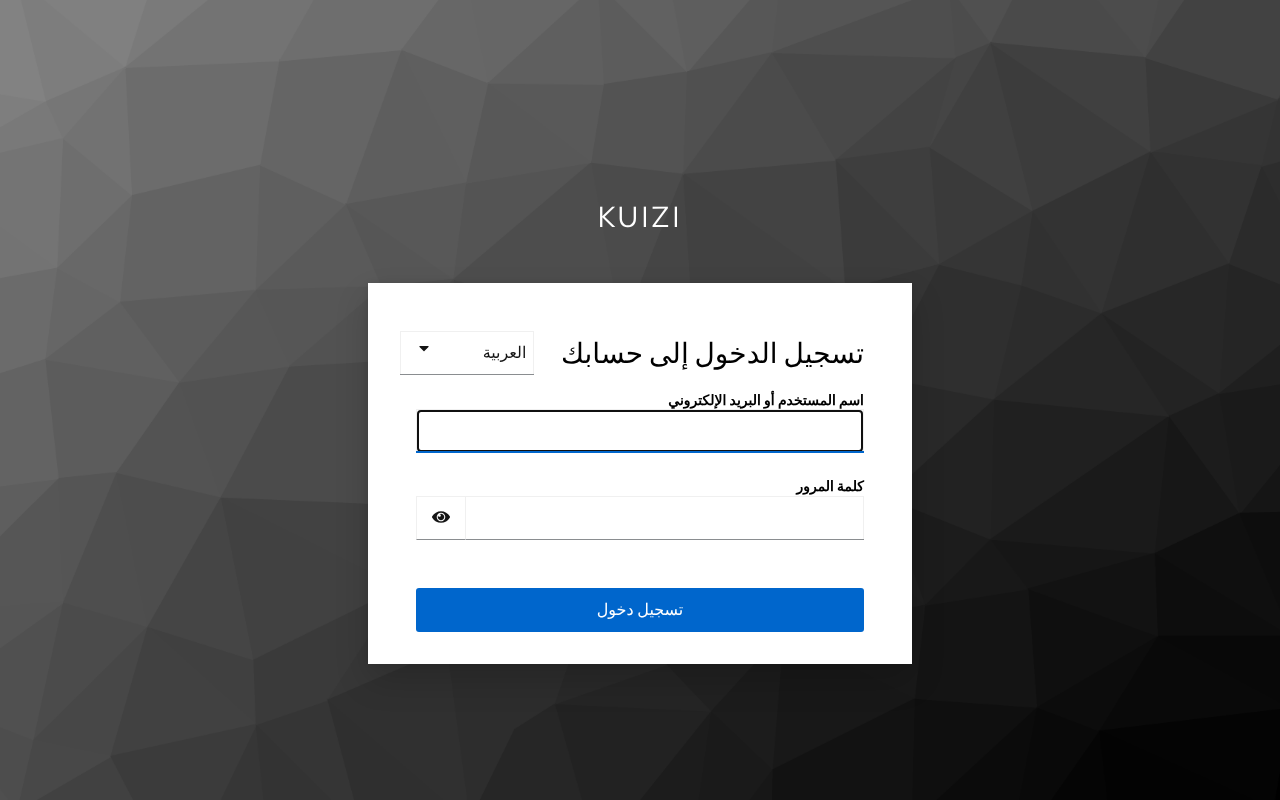
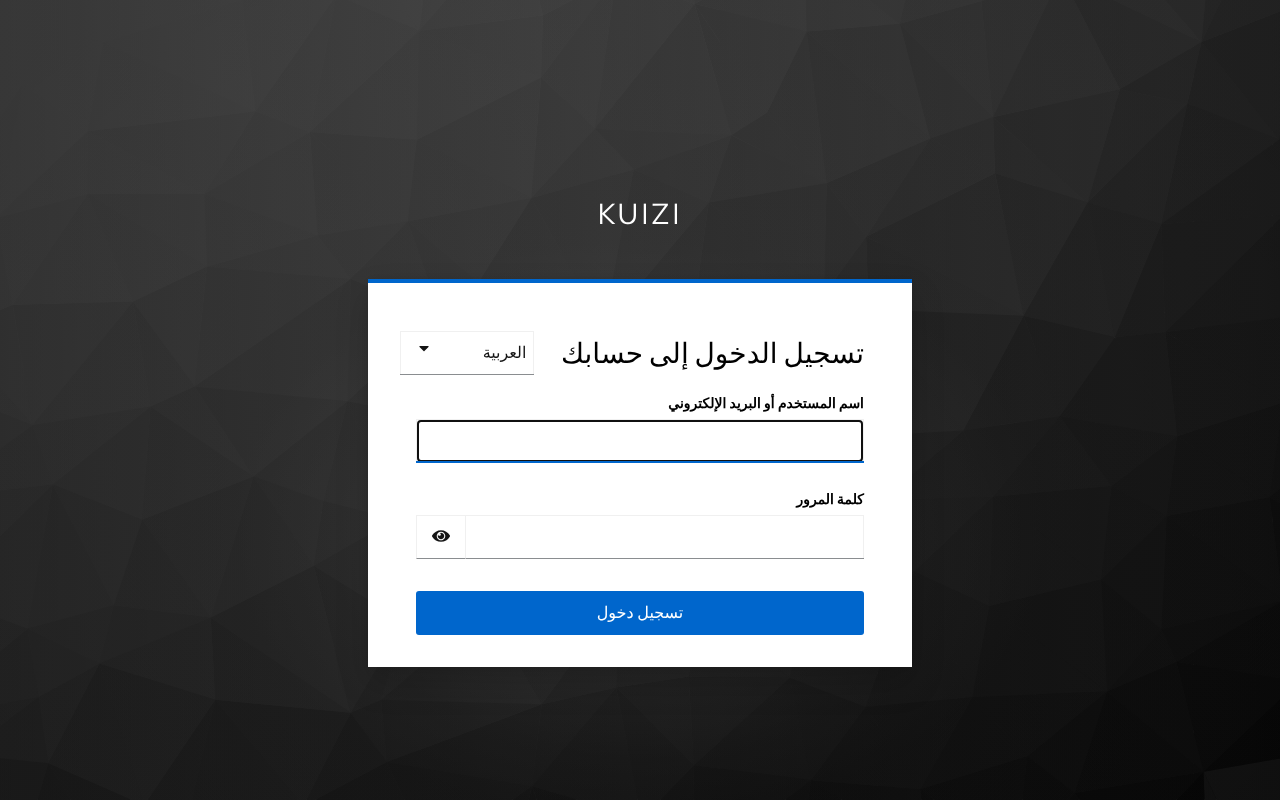
fix(keycloak): upgrade to Keycloak 26.8.1, clearing 7 CRITICAL CVEs (T012)
Trivy (v0.70.0, DB of 2026-10-18) on the Kuizi image:
- 26.1.4: 7 CRITICAL, 85 HIGH (keycloak-services CVE-2026-18963, netty-handler 4.1.118
  CVE-2026-75595, bcprov 1.78.1 CVE-2025-14813 and CVE-2026-8763, freemarker 2.3.32
  CVE-2026-84939). No 26.1.x release fixes them.
- 26.8.1: 0 CRITICAL, 0 HIGH (26 MEDIUM, 25 LOW).

Changes:
- Dockerfile KEYCLOAK_VERSION, provider pom keycloak.version 26.8.1 and jboss-logging
  3.6.3.Final (as bundled), compose image tag kuizi/keycloak:26.8.1-kuizi.1.
- Password-policy SPI unchanged (only Config.Scope gained default methods); provider
  builds and its 11 tests pass unchanged; KC_SPI_PASSWORD_POLICY_PWNED_PASSWORD_* still read.
- keycloak.v2 login theme still PatternFly 5 and still 36 px controls: the Kuizi CSS still
  brings them to 44 px; Keycloak's Arabic "password updated" title is still wrong, fix kept.
- Realm imports unchanged on 26.8.1.
- Keycloak 26.8 refuses a password grant with HTTP 400 invalid_grant (26.1: 401): the
  brute-force integration test checks invalid_grant and accepts either status.
- sid and jti formats changed (no longer UUIDs); docs say they are opaque.
- Fresh screenshots (26.8 look: darker background, error icon); docs note that upgrades
  migrate the Keycloak database one way.

Claude-Session: https://claude.ai/code/session_011Suu8EGNBx5pqEThzk8u3c

diff --git a/packages/auth/test/keycloak-realm.integration.test.ts b/packages/auth/test/keycloak-realm.integration.test.ts
@@ -127,17 +127,25 @@ describe.skipIf(!running)(`Keycloak realm settings (${ISSUER})`, () => {
       expect((await setPassword(`violet-otter-${randomUUID()}`)).status).toBe(204);
     });
 
+    // Keycloak 26.8 refuses a password grant with HTTP 400 invalid_grant (RFC 6749 section 5.2);
+    // 26.1 answered 401. Both mean "no token".
+    async function expectRefused(password: string) {
+      const { status, body } = await passwordGrant(username, password);
+      expect([400, 401]).toContain(status);
+      expect(body.error).toBe("invalid_grant");
+    }
+
     it("locks the account for a while after 5 failed sign-ins", async () => {
       const password = `amber-falcon-${randomUUID()}`;
       expect((await setPassword(password)).status).toBe(204);
       for (let attempt = 0; attempt < 5; attempt += 1) {
-        expect((await passwordGrant(username, "not-the-password-local-only")).status).toBe(401);
+        await expectRefused("not-the-password-local-only");
       }
       const state = (await (
         await adminApi("GET", `/attack-detection/brute-force/users/${userId}`)
       ).json()) as { disabled: boolean; numFailures: number };
       expect(state.disabled).toBe(true);
-      expect((await passwordGrant(username, password)).status).toBe(401);
+      await expectRefused(password); // the right password is refused while locked
     });
   });
 

diff --git a/docs/dev/identity.md b/docs/dev/identity.md
@@ -65,7 +65,8 @@ An access token for `dev-student` signed in through the web app:
   "sub": "f41e3b5c-b3e8-484d-8d70-a5405d99b689",
   "typ": "Bearer",
   "azp": "kuizi-web",
-  "sid": "5c08c133-6beb-4e9d-b6be-360b0c866c4c",
+  "sid": "Zz4Jwbds0bIuUQi8NoXJfRfd",
+  "jti": "onltro:8b744b10-1de5-6b26-5c69-099326bfd985",
   "scope": "openid email profile",
   "tenant_id": "demo-school-a",
   "roles": ["student"],
@@ -76,6 +77,7 @@ An access token for `dev-student` signed in through the web app:
 
 - **No name, email or username in access tokens.** Clients use Keycloak's *lightweight access token*, so tokens that travel to every service (and may end up in gateway logs) carry no personal data beyond the user ID. The ID token, read only by the app that signed in, carries the name and email (and the locale once set) for display, plus `tenant_id` and `roles`.
 - Signed RS256 with the realm key; Keycloak publishes the public keys at `/realms/kuizi/protocol/openid-connect/certs`.
+- `sid` and `jti` are opaque strings: their format changed between Keycloak 26.1 and 26.8 (UUIDs before), so code must not parse them.
 
 | Setting | Value | Why |
 | --- | --- | --- |
@@ -99,7 +101,7 @@ The login page offers exactly French (default) and Arabic. Arabic renders right 
 
 Arabic on a phone (390 px wide): ![Login page in Arabic on a phone](identity/login-ar-mobile.png)
 
-Screenshots taken with Playwright (Chromium) against the local stack on 2026-10-18; every control measured 44 px high or more.
+Screenshots taken with Playwright (Chromium) against the local stack (Keycloak 26.8.1) on 2026-10-18; every control measured 44 px high or more (Keycloak's own theme draws them 36 px high).
 
 Self-registration is **off** until the consent flow exists (T013): accounts are created by admins, by Google sign-in, or later by Kuizi's own onboarding. Password reset by email and email verification are off locally because the local stack has no mail server; they come with SES (T212).
 
@@ -182,6 +184,8 @@ docker compose -f infra/local/compose.yaml --env-file .env up -d --force-recreat
 ```
 
 `make reset` also works but deletes every service's data. After a change in `services/keycloak/`, bump the image tag in `infra/local/compose.yaml` (or run `docker compose -f infra/local/compose.yaml --env-file .env build keycloak`) so the image is rebuilt.
+
+Keycloak upgrades are one-way: on start, a newer Keycloak migrates its database (for example 26.1 to 26.8), and an older image then refuses to start on it. Going back to an older Keycloak means `make reset`, or dropping and recreating only the `keycloak` database.
 
 Stock Keycloak (without the Kuizi image) cannot load this realm: it does not know the `pwnedPassword` policy and answers HTTP 500 for every `kuizi` page, including the admin call that would delete the realm. Before going back to a checkout older than T012, delete the realm with the commands above while the Kuizi image still runs, or use `make reset`.
 

diff --git a/services/keycloak/README.md b/services/keycloak/README.md
@@ -1,6 +1,6 @@
 # Kuizi Keycloak image
 
-Stock Keycloak (`quay.io/keycloak/keycloak:26.1.4`) plus Kuizi's extensions (T012, [ADR 0009](../../docs/architecture/decisions/0009-identity-single-realm-and-keycloak-image.md)). The local stack builds it on the first `make up`; the cloud uses the same image (T240). The realm itself lives in [`infra/local/keycloak/`](../../infra/local/keycloak/) and is explained in [`docs/dev/identity.md`](../../docs/dev/identity.md).
+Stock Keycloak (`quay.io/keycloak/keycloak:26.8.1`) plus Kuizi's extensions (T012, [ADR 0009](../../docs/architecture/decisions/0009-identity-single-realm-and-keycloak-image.md)). The local stack builds it on the first `make up`; the cloud uses the same image (T240). The realm itself lives in [`infra/local/keycloak/`](../../infra/local/keycloak/) and is explained in [`docs/dev/identity.md`](../../docs/dev/identity.md).
 
 | Path | What |
 | --- | --- |
@@ -49,4 +49,4 @@ Messages shown to users are in `src/main/resources/theme-resources/messages/` (F
 
 If the API is blocked on a network, two fallbacks exist: a self-hosted copy of the range data (the API URL setting), or Keycloak's built-in `passwordBlacklist` policy with a file of common passwords.
 
-Keycloak logs `pwnedPassword ... is implementing the internal SPI password-policy` at start-up: password policies are an internal extension point that may change in a major Keycloak upgrade. Upgrading Keycloak means changing `KEYCLOAK_VERSION` in the `Dockerfile` and `keycloak.version` in the `pom.xml` together, then rebuilding (the unit tests run in the build) and running `pnpm --filter @kuizi/auth test` against the new image.
+Keycloak logs `pwnedPassword ... is implementing the internal SPI password-policy` at start-up: password policies are an internal extension point that may change in a major Keycloak upgrade. Upgrading Keycloak means changing `KEYCLOAK_VERSION` in the `Dockerfile`, `keycloak.version` (and the bundled library versions) in the `pom.xml` and the image tag in `infra/local/compose.yaml` together, then rebuilding (the unit tests run in the build), re-importing the realm and running `pnpm --filter @kuizi/auth test` and `make smoke` against the new image. The upgrade migrates Keycloak's database; older images cannot start on it afterwards. The last upgrade, 26.1.4 to 26.8.1 (2026-10-18), removed 7 CRITICAL findings reported by Trivy.
